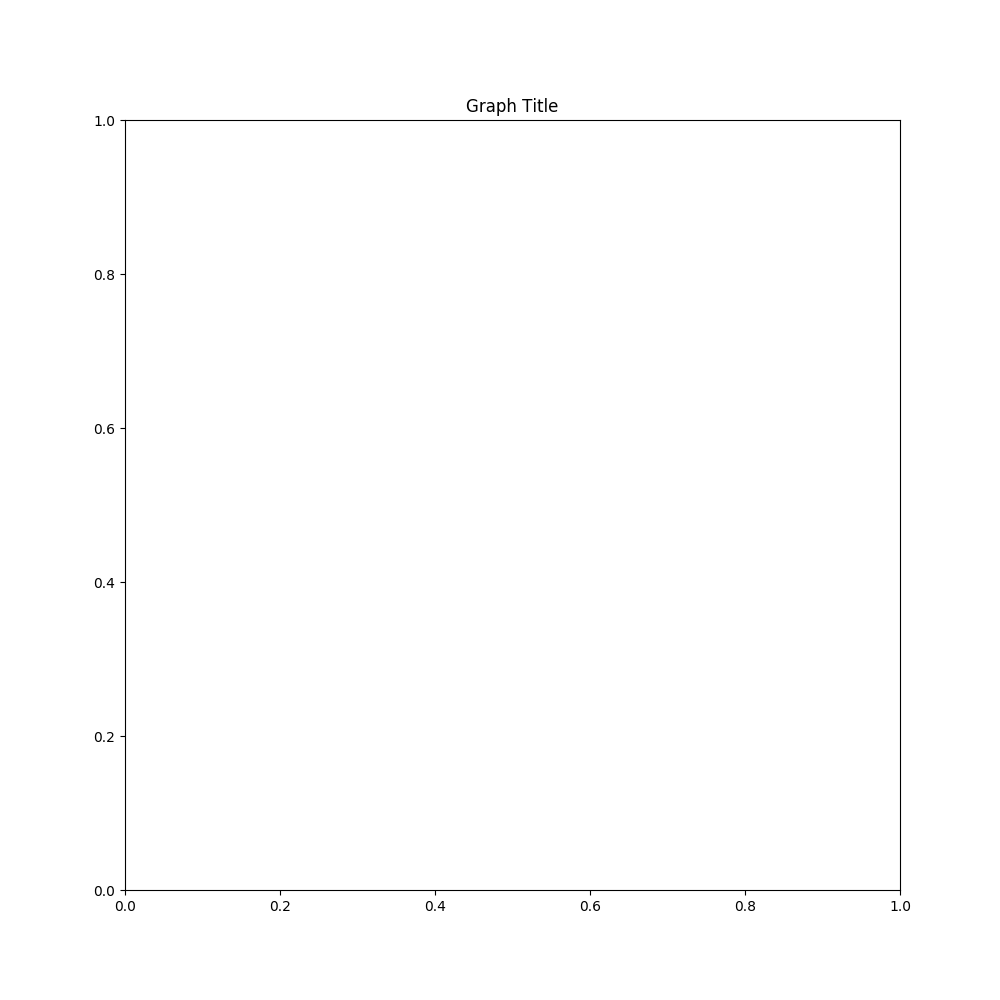
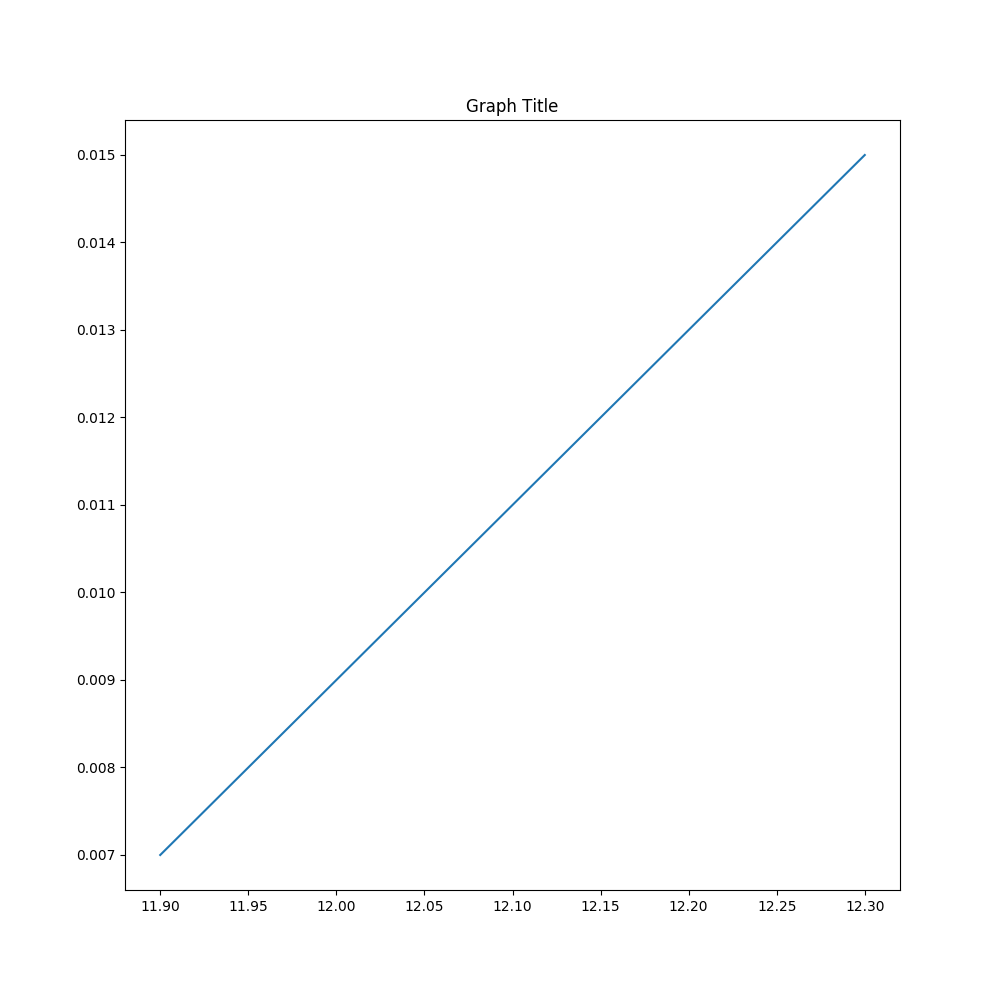
Graphing Working

diff --git a/DataSet.py b/DataSet.py
@@ -18,7 +18,6 @@ class DataSet:
         self.xml = None
         self.xml_root = None
         self.samples = {}
-        self.key_points = {}
         self.phases = {}
         self.graphs = []
         self.process_config_file()
@@ -27,7 +26,6 @@ class DataSet:
         self.xml = Et.parse(self.xml_config_file)
         self.xml_root = self.xml.getroot()
         definitions = self.xml_root.find('definitions')
-        self.generate_key_points(definitions.find('keypoints'))
         self.generate_phases(definitions.find('phases'))
         self.generate_graph_data(self.xml_root.find('analysis'))
         for d in self.xml_root.findall('dataset'):
@@ -38,13 +36,15 @@ class DataSet:
                 ds_id = -1
             if ds_id == -1 or ds_type is None:
                 sys.exit('There is an invalid XML Entry for a Dataset')
-            self.samples.update({ds_id: Sample(ds_type, d, ds_id)})
+            new_sample = Sample(ds_type, d, ds_id)
+            self.samples.update({ds_id: new_sample})
+            """
             kp = d.find('keypoints')
             for p in kp.findall('point'):
                 kp_name = p.get('name')
                 if kp_name is None:
                     sys.exit('The Dataset with ID %d has a Key Point with no name' % ds_id)
-                if kp_name not in self.key_points:
+                if kp_name not in new_sample.key_points:
                     sys.exit('The Dataset with ID %d has a Key Point that is not defined (%s)'
                              % (ds_id, kp_name))
                 try:
@@ -56,14 +56,7 @@ class DataSet:
                     sys.exit('The Sample %d has a Key Point %s with no frame number'
                              % (ds_id, kp_name))
                 self.samples[ds_id].set_keypoint(kp_name, framenum)
-
-    def generate_key_points(self, keypoints):
-        for p in keypoints.findall('point'):
-            abbr = p.get('abbr')
-            name = p.get('name')
-            if abbr is None or name is None:
-                sys.exit('A Key Point is defined without an Abbreviation or Name')
-            self.key_points.update({abbr: KeyPointData(name, abbr)})
+            """
 
     def generate_phases(self, phases):
         for p in phases.findall('phase'):
@@ -72,10 +65,6 @@ class DataSet:
             end = p.get('end')
             if name is None or start is None or end is None:
                 sys.exit('A Phase is defined without a Name, Start Point or End Point')
-            if start not in self.key_points:
-                sys.exit('The phase %s starts at an unknown key point (%s)' % (name, start))
-            if end not in self.key_points:
-                sys.exit('The phase %s ends at an unknown key point (%s)' % (name, end))
             self.phases.update({name.replace(' ', '_'): Phase(start, end)})
 
     def generate_graph_data(self, analysis_data):
@@ -96,7 +85,7 @@ class DataSet:
             plot = fig.add_subplot(1, 1, 1)
             plot.set_title(g.title)
             for k, v in self.samples.items():
-                v.graph(g, fig)
+                v.graph(g, plot)
             fig.savefig(g.filename)
 
 
@@ -163,11 +152,6 @@ class Sample:
         if None in column_data:
             sys.exit('There was an error processing Column Data for the file %s' % filename)
         return column_data
-
-    def set_keypoint(self, kp_name, framenum):
-        if kp_name not in self.key_points:
-            self.key_points.update({kp_name: []})
-        self.key_points[kp_name].append(framenum)
 
     def graph(self, graph_data, fig):
         if graph_data.joint in self.joints:
@@ -237,14 +221,15 @@ class Joint:
         if graph_data.normalise:
             self.normalise_data(x_data, x_data_type, graph_data.joint, phase_start, phase_end)
         else:
-            for i in range(phase_start, phase_end):
-                x_data.append(self.joint_data[graph_data.joint].get(x_data_type[1], x_data_type[0]))
-        for i in range(phase_start, phase_end):
-            y_data.append(self.joint_data[graph_data.joint].get(y_data_type[1], y_data_type[0]))
+            for i in range(phase_start.frame_num, phase_end.frame_num):
+                x_data.append(self.joint_data[i].get(x_data_type[1], x_data_type[0]))
+        for i in range(phase_start.frame_num, phase_end.frame_num):
+            y_data.append(self.joint_data[i].get(y_data_type[1], y_data_type[0]))
 
     def normalise_data(self, x_data, x_data_type, joint, phase_start, phase_end):
-        phase_length = phase_end - phase_start
-        x_data.append(100/phase_length * self.joint_data[joint].get(x_data_type[1], x_data_type[0]))
+        phase_length = phase_end.frame_num - phase_start.frame_num
+        for i in range(phase_start.frame_num, phase_end.frame_num):
+            x_data.append(100/phase_length * self.joint_data[i].get(x_data_type[1], x_data_type[0]))
 
 
 class JointData:
@@ -283,13 +268,8 @@ class JointData:
 class KeyPoint:
     def __init__(self, point_data):
         self.name = point_data.get('name')
-        self.frame_num = point_data.get('framenum')
+        self.frame_num = int(point_data.get('framenum'))
 
-
-class KeyPointData:
-    def __init__(self, name, abbr):
-        self.name = name
-        self.abbr = abbr
 
 class Phase:
     def __init__(self, start, end):
